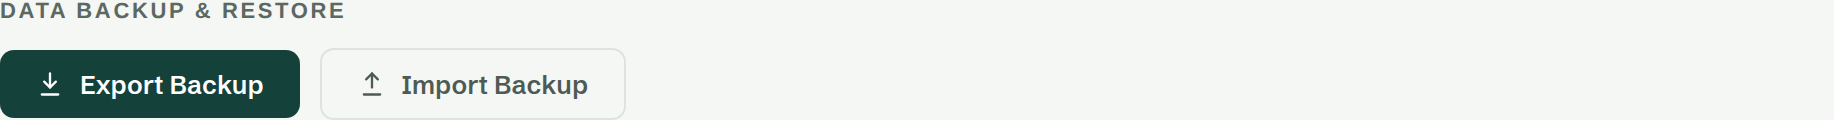
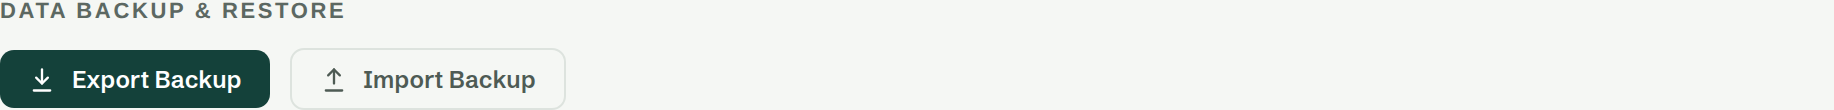
Put Settings' own controls back on the button scale
Splitting Settings into pages left the controls on those pages as they were,
and measured across the seventeen there were ten distinct shapes — of which
six were plain buttons that should have been two.

The app already documents a four-step button scale; the drift was entirely
things that had opted out of it. Five classes restated a step under their own
name — .holiday-remove-btn, .year-active-btn and .copy-year-btn each spelling
out the dense step's 11px / 4px 10px / radius 6, .reset-targets-btn missing
the base step by two pixels of padding and one of radius — and
.holiday-year-pill hand-painted navy for a selected state that .cf-pill's
[data-active] already had. Each now shares the selector that owns its
geometry and keeps only what is its own: colour, border, and in the pill's
case the mono face, which is the one thing about a year that is not like
every other pill.

The subtler one is the trap in the scale's own rule. Non-size properties live
with the modifier that owns them, so a button wearing only --iconrow or
--dangerwide names no step and falls silently to the no-modifier one: Export
Backup and Reset Local Cache came out 13px while + Add 2027 next door was
12px. A role is not a size; those four call sites now name both. Same story
inside a single holiday row, where Edit was the base step and Remove the
dense one — two sizes, one row.

Two shapes now, across ten pages, and they are the scale's own dense and base
[…]

Changed region(s): [[0.0, 0.4091, 0.3419, 1.0], [0.0, 0.0, 0.1865, 0.1636]]

diff --git a/index.html b/index.html
@@ -81,10 +81,11 @@
            same line as it. */
         .checkbox-help-row{display:flex;align-items:center;}
         /* ── Settings → Statutory Holidays ── */
-        .holiday-year-pill{font-family:var(--font-mono);font-size:12px;font-weight:600;
-          padding:5px 12px;min-height:32px;border-radius:8px;cursor:pointer;
-          border:1px solid var(--border);background:var(--bgCard);color:var(--textMid);}
-        .holiday-year-pill[data-active="true"]{background:var(--navy);border-color:var(--navy);color:#fff;}
+        /* A year selector is a pill, and the app already has one — .cf-pill,
+           whose [data-active] state is the same state this was painting navy
+           by hand. All that is left here is the mono face, which is the one
+           thing about a year that is not like every other pill. */
+        .holiday-year-pill{font-family:var(--font-mono);}
         .holiday-list{border:1px solid var(--border);border-radius:10px;overflow:hidden;}
         .holiday-row{display:flex;align-items:center;gap:10px;flex-wrap:wrap;
           padding:8px 12px;border-bottom:1px solid var(--border);background:var(--bgCard);}
@@ -99,8 +100,7 @@
         .holiday-chip--manual{background:var(--accentLt);color:var(--accent);border-color:transparent;}
         .holiday-chip--published{background:var(--greenLt);color:var(--greenDk);border-color:transparent;}
         .holiday-chip--optional{background:var(--amberLt);color:var(--amberInk);border-color:transparent;}
-        .holiday-remove-btn{font-family:var(--font-ui);font-size:11px;font-weight:600;
-          padding:4px 10px;min-height:30px;border-radius:6px;cursor:pointer;
+        .holiday-remove-btn{font-family:var(--font-ui);font-weight:600;cursor:pointer;
           border:1px solid transparent;background:transparent;color:var(--red);}
         .holiday-remove-btn:hover{background:var(--redLt);}
         .holiday-form{border:1px solid var(--border);border-radius:10px;padding:14px;background:var(--stripe);}
@@ -194,9 +194,21 @@
              (no modifier) — form and dialog buttons
 
            Non-size properties (weight, border, icon gaps) stay with the
-           modifier that owns them, below and beside their components. */
-        .cf-btn--compact,.cf-btn--micro,.cf-btn--yearremove{font-size:11px;padding:4px 10px;border-radius:6px;}
-        .cf-btn--sm,.cf-btn--xs,.cf-btn--tiny,.cf-btn--md,.cf-btn--showhide{font-size:12px;padding:7px 14px;}
+           modifier that owns them, below and beside their components — which
+           is also the trap. A button wearing only one of those (--iconrow,
+           --dangerwide) names no step and falls silently to the no-modifier
+           one, so the same page action came out 13px on Accounts and 12px on
+           Budget Years. A role is not a size: every button needs one of each.
+
+           The five classes that used to restate a step under their own name
+           now share these selectors instead — .holiday-remove-btn,
+           .year-active-btn and .copy-year-btn on dense, .reset-targets-btn on
+           base, and .holiday-year-pill folded into .cf-pill, whose
+           [data-active] state it had been painting navy by hand. */
+        .cf-btn--compact,.cf-btn--micro,.cf-btn--yearremove,
+        .holiday-remove-btn,.year-active-btn,.copy-year-btn{font-size:11px;padding:4px 10px;border-radius:6px;}
+        .cf-btn--sm,.cf-btn--xs,.cf-btn--tiny,.cf-btn--md,.cf-btn--showhide,
+        .reset-targets-btn{font-size:12px;padding:7px 14px;}
         .cf-btn--wide,.cf-btn--action{font-size:12px;padding:8px 18px;}
         /* Layout helpers */
         .cf-hidden{display:none!important;}
@@ -977,8 +989,8 @@
         .year-number{font-family:var(--font-mono);font-size:14px;font-weight:700;color:var(--text);min-width:52px;}
         .openbal-label{font-size:11px;color:var(--textMid);white-space:nowrap;}
         .openbal-input{padding:4px 8px;border:1px solid var(--border);border-radius:6px;background:var(--inputBg);color:var(--text);outline:none;width:120px;max-width:100%;min-width:0;flex:0 1 120px;}
-        .year-active-btn{font-size:11px;padding:4px 10px;border-radius:6px;border:1px solid var(--border);cursor:pointer;}
-        .copy-year-btn{font-size:11px;color:var(--primaryInk);background:none;border:1px solid var(--primary);cursor:pointer;padding:4px 10px;border-radius:6px;white-space:nowrap;}
+        .year-active-btn{font-weight:600;border:1px solid var(--border);cursor:pointer;}
+        .copy-year-btn{font-weight:600;color:var(--primaryInk);background:none;border:1px solid var(--primary);cursor:pointer;white-space:nowrap;}
         .newyear-input{padding:7px 10px;border:1px solid var(--border);border-radius:6px;background:var(--inputBg);color:var(--text);outline:none;width:120px;}
         .cf-btn--iconrow{display:flex;align-items:center;gap:8px;}
         .backup-msg{font-size:12px;margin-top:10px;}
@@ -1023,7 +1035,8 @@
         .bio-section{margin-top:18px;padding-top:16px;border-top:1px solid var(--border);}
         .bio-busy-text{font-size:12px;color:var(--textLt);}
         .error-text-mt6{font-size:12px;color:var(--red);margin-top:6px;}
-        .reset-targets-btn{font-size:13px;font-weight:600;padding:9px 20px;border-radius:8px;border:1px solid var(--primary);cursor:pointer;background:var(--primary);color:#fff;}
+        .reset-targets-btn{font-family:var(--font-ui);font-weight:600;border-radius:7px;cursor:pointer;
+          border:1px solid var(--primary);background:var(--primary);color:#fff;}
         .success-text-mt10{font-size:12px;color:var(--greenDk);margin-top:10px;}
         .danger-card{margin-bottom:20px;border:1px solid var(--redLt);}
         .cf-btn--dangerwide{border:1px solid var(--red);display:inline-flex;align-items:center;gap:6px;}
@@ -1640,9 +1653,10 @@
           border-radius:9px;background:#fff;transition:left 0.2s;box-shadow:0 1px 4px rgba(0,0,0,0.2);}
         .cf-switch[aria-checked="true"] .cf-switch-knob{left:23px;}
         /* Pill segmented controls (month picker, view toggles) */
-        .cf-pill{font-size:12px;font-weight:600;padding:6px 14px;border-radius:20px;border:none;
+        .cf-pill,.holiday-year-pill{font-size:12px;font-weight:600;padding:6px 14px;border-radius:20px;border:none;
           cursor:pointer;flex-shrink:0;background:var(--border);color:var(--textMid);}
-        .cf-pill[aria-pressed="true"],.cf-pill[data-active="true"]{background:var(--primary);color:#fff;}
+        .cf-pill[aria-pressed="true"],.cf-pill[data-active="true"],
+        .holiday-year-pill[data-active="true"]{background:var(--primary);color:#fff;}
         .cf-pill--dashed{font-size:11px;font-weight:700;padding:6px 12px;border-radius:20px;
           border:1.5px dashed var(--primary);cursor:pointer;flex-shrink:0;background:transparent;color:var(--primaryInk);}
         /* Compact variant for pill toggles docked in a card header (YoY metric,
@@ -4879,7 +4893,7 @@ document.addEventListener('DOMContentLoaded',function(){
   const HELP_SHOTS = {
     "settings-years": {
       "w": 917,
-      "h": 151
+      "h": 109
     },
     "entry-form": {
       "w": 680,
@@ -4907,7 +4921,7 @@ document.addEventListener('DOMContentLoaded',function(){
     },
     "dashboard-upcoming": {
       "w": 917,
-      "h": 228
+      "h": 194
     },
     "plan-goals": {
       "w": 917,
@@ -4915,7 +4929,7 @@ document.addEventListener('DOMContentLoaded',function(){
     },
     "settings-backup": {
       "w": 917,
-      "h": 102
+      "h": 60
     }
   };
   // Extracted from app-data.js (round-9 AR4 remainder) — pure code motion.
@@ -15431,7 +15445,7 @@ Fill every field of the response schema. Rules:
         sourceChip(row.source),
         /* @__PURE__ */ React.createElement("div", { className: "cf-row cf-gap-6" }, /* @__PURE__ */ React.createElement(
           "button",
-          { onClick: () => startEdit(row), className: "cf-btn cf-btn--secondary cf-btn--tiny", "aria-label": `Edit ${row.name}` },
+          { onClick: () => startEdit(row), className: "cf-btn cf-btn--secondary cf-btn--compact", "aria-label": `Edit ${row.name}` },
           "Edit"
         ), /* @__PURE__ */ React.createElement(
           "button",
@@ -15936,7 +15950,7 @@ Fill every field of the response schema. Rules:
       onClick: () => setRemovingAccount(a),
       "aria-label": `Remove ${a.name}`
     }, "Remove")))), /* @__PURE__ */ React.createElement("div", { className: "cf-row cf-gap-10 cf-wrap" }, /* @__PURE__ */ React.createElement("button", {
-      className: "cf-btn cf-btn--secondary",
+      className: "cf-btn cf-btn--secondary cf-btn--md",
       onClick: () => {
         setAccounts((prev) => [...prev, { id: genId(), name: "New account", kind: "savings", opening: 0 }]);
         logActivity("account", "Added an account");
@@ -16233,7 +16247,7 @@ Fill every field of the response schema. Rules:
           setInviteBusy(false);
         },
         disabled: inviteBusy,
-        className: "cf-btn cf-btn--primary"
+        className: "cf-btn cf-btn--primary cf-btn--md"
       },
       inviteBusy ? "Generating…" : "Generate invite code"
     ), inviteCode && /* @__PURE__ */ React.createElement("div", { className: "invite-code-display" }, inviteCode))) },
@@ -16254,7 +16268,7 @@ Fill every field of the response schema. Rules:
           // export, and the export itself already succeeded.
         }
       }
-    }, className: "cf-btn cf-btn--primary cf-btn--iconrow" }, /* @__PURE__ */ React.createElement(Icon, { name: "download", size: 14 }), "Export Backup"), /* @__PURE__ */ React.createElement("label", { className: "cf-btn cf-btn--secondary cf-btn--iconrow" }, /* @__PURE__ */ React.createElement(Icon, { name: "upload", size: 14 }), "Import Backup", /* @__PURE__ */ React.createElement("input", { type: "file", accept: ".json", className: "hidden", onChange: (e) => {
+    }, className: "cf-btn cf-btn--primary cf-btn--md cf-btn--iconrow" }, /* @__PURE__ */ React.createElement(Icon, { name: "download", size: 14 }), "Export Backup"), /* @__PURE__ */ React.createElement("label", { className: "cf-btn cf-btn--secondary cf-btn--md cf-btn--iconrow" }, /* @__PURE__ */ React.createElement(Icon, { name: "upload", size: 14 }), "Import Backup", /* @__PURE__ */ React.createElement("input", { type: "file", accept: ".json", className: "hidden", onChange: (e) => {
       const file = e.target.files[0];
       if (!file) return;
       const reader = new FileReader();
@@ -16484,7 +16498,7 @@ Fill every field of the response schema. Rules:
       "button",
       {
         onClick: () => setConfirmWipe(true),
-        className: "cf-btn cf-btn--danger cf-btn--dangerwide"
+        className: "cf-btn cf-btn--danger cf-btn--md cf-btn--dangerwide"
       },
       /* @__PURE__ */ React.createElement(Icon, { name: "trash", size: 13 }),
       "Reset Local Cache"

diff --git a/src/styles.css b/src/styles.css
@@ -53,10 +53,11 @@
            same line as it. */
         .checkbox-help-row{display:flex;align-items:center;}
         /* ── Settings → Statutory Holidays ── */
-        .holiday-year-pill{font-family:var(--font-mono);font-size:12px;font-weight:600;
-          padding:5px 12px;min-height:32px;border-radius:8px;cursor:pointer;
-          border:1px solid var(--border);background:var(--bgCard);color:var(--textMid);}
-        .holiday-year-pill[data-active="true"]{background:var(--navy);border-color:var(--navy);color:#fff;}
+        /* A year selector is a pill, and the app already has one — .cf-pill,
+           whose [data-active] state is the same state this was painting navy
+           by hand. All that is left here is the mono face, which is the one
+           thing about a year that is not like every other pill. */
+        .holiday-year-pill{font-family:var(--font-mono);}
         .holiday-list{border:1px solid var(--border);border-radius:10px;overflow:hidden;}
         .holiday-row{display:flex;align-items:center;gap:10px;flex-wrap:wrap;
           padding:8px 12px;border-bottom:1px solid var(--border);background:var(--bgCard);}
@@ -71,8 +72,7 @@
         .holiday-chip--manual{background:var(--accentLt);color:var(--accent);border-color:transparent;}
         .holiday-chip--published{background:var(--greenLt);color:var(--greenDk);border-color:transparent;}
         .holiday-chip--optional{background:var(--amberLt);color:var(--amberInk);border-color:transparent;}
-        .holiday-remove-btn{font-family:var(--font-ui);font-size:11px;font-weight:600;
-          padding:4px 10px;min-height:30px;border-radius:6px;cursor:pointer;
+        .holiday-remove-btn{font-family:var(--font-ui);font-weight:600;cursor:pointer;
           border:1px solid transparent;background:transparent;color:var(--red);}
         .holiday-remove-btn:hover{background:var(--redLt);}
         .holiday-form{border:1px solid var(--border);border-radius:10px;padding:14px;background:var(--stripe);}
@@ -166,9 +166,21 @@
              (no modifier) — form and dialog buttons
 
            Non-size properties (weight, border, icon gaps) stay with the
-           modifier that owns them, below and beside their components. */
-        .cf-btn--compact,.cf-btn--micro,.cf-btn--yearremove{font-size:11px;padding:4px 10px;border-radius:6px;}
-        .cf-btn--sm,.cf-btn--xs,.cf-btn--tiny,.cf-btn--md,.cf-btn--showhide{font-size:12px;padding:7px 14px;}
+           modifier that owns them, below and beside their components — which
+           is also the trap. A button wearing only one of those (--iconrow,
+           --dangerwide) names no step and falls silently to the no-modifier
+           one, so the same page action came out 13px on Accounts and 12px on
+           Budget Years. A role is not a size: every button needs one of each.
+
+           The five classes that used to restate a step under their own name
+           now share these selectors instead — .holiday-remove-btn,
+           .year-active-btn and .copy-year-btn on dense, .reset-targets-btn on
+           base, and .holiday-year-pill folded into .cf-pill, whose
+           [data-active] state it had been painting navy by hand. */
+        .cf-btn--compact,.cf-btn--micro,.cf-btn--yearremove,
+        .holiday-remove-btn,.year-active-btn,.copy-year-btn{font-size:11px;padding:4px 10px;border-radius:6px;}
+        .cf-btn--sm,.cf-btn--xs,.cf-btn--tiny,.cf-btn--md,.cf-btn--showhide,
+        .reset-targets-btn{font-size:12px;padding:7px 14px;}
         .cf-btn--wide,.cf-btn--action{font-size:12px;padding:8px 18px;}
         /* Layout helpers */
         .cf-hidden{display:none!important;}
@@ -949,8 +961,8 @@
         .year-number{font-family:var(--font-mono);font-size:14px;font-weight:700;color:var(--text);min-width:52px;}
         .openbal-label{font-size:11px;color:var(--textMid);white-space:nowrap;}
         .openbal-input{padding:4px 8px;border:1px solid var(--border);border-radius:6px;background:var(--inputBg);color:var(--text);outline:none;width:120px;max-width:100%;min-width:0;flex:0 1 120px;}
-        .year-active-btn{font-size:11px;padding:4px 10px;border-radius:6px;border:1px solid var(--border);cursor:pointer;}
-        .copy-year-btn{font-size:11px;color:var(--primaryInk);background:none;border:1px solid var(--primary);cursor:pointer;padding:4px 10px;border-radius:6px;white-space:nowrap;}
+        .year-active-btn{font-weight:600;border:1px solid var(--border);cursor:pointer;}
+        .copy-year-btn{font-weight:600;color:var(--primaryInk);background:none;border:1px solid var(--primary);cursor:pointer;white-space:nowrap;}
         .newyear-input{padding:7px 10px;border:1px solid var(--border);border-radius:6px;background:var(--inputBg);color:var(--text);outline:none;width:120px;}
         .cf-btn--iconrow{display:flex;align-items:center;gap:8px;}
         .backup-msg{font-size:12px;margin-top:10px;}
@@ -995,7 +1007,8 @@
         .bio-section{margin-top:18px;padding-top:16px;border-top:1px solid var(--border);}
         .bio-busy-text{font-size:12px;color:var(--textLt);}
         .error-text-mt6{font-size:12px;color:var(--red);margin-top:6px;}
-        .reset-targets-btn{font-size:13px;font-weight:600;padding:9px 20px;border-radius:8px;border:1px solid var(--primary);cursor:pointer;background:var(--primary);color:#fff;}
+        .reset-targets-btn{font-family:var(--font-ui);font-weight:600;border-radius:7px;cursor:pointer;
+          border:1px solid var(--primary);background:var(--primary);color:#fff;}
         .success-text-mt10{font-size:12px;color:var(--greenDk);margin-top:10px;}
         .danger-card{margin-bottom:20px;border:1px solid var(--redLt);}
         .cf-btn--dangerwide{border:1px solid var(--red);display:inline-flex;align-items:center;gap:6px;}
@@ -1612,9 +1625,10 @@
           border-radius:9px;background:#fff;transition:left 0.2s;box-shadow:0 1px 4px rgba(0,0,0,0.2);}
         .cf-switch[aria-checked="true"] .cf-switch-knob{left:23px;}
         /* Pill segmented controls (month picker, view toggles) */
-        .cf-pill{font-size:12px;font-weight:600;padding:6px 14px;border-radius:20px;border:none;
+        .cf-pill,.holiday-year-pill{font-size:12px;font-weight:600;padding:6px 14px;border-radius:20px;border:none;
           cursor:pointer;flex-shrink:0;background:var(--border);color:var(--textMid);}
-        .cf-pill[aria-pressed="true"],.cf-pill[data-active="true"]{background:var(--primary);color:#fff;}
+        .cf-pill[aria-pressed="true"],.cf-pill[data-active="true"],
+        .holiday-year-pill[data-active="true"]{background:var(--primary);color:#fff;}
         .cf-pill--dashed{font-size:11px;font-weight:700;padding:6px 12px;border-radius:20px;
           border:1.5px dashed var(--primary);cursor:pointer;flex-shrink:0;background:transparent;color:var(--primaryInk);}
         /* Compact variant for pill toggles docked in a card header (YoY metric,

diff --git a/src/components/settings.js b/src/components/settings.js
@@ -201,7 +201,7 @@
         sourceChip(row.source),
         /* @__PURE__ */ React.createElement("div", { className: "cf-row cf-gap-6" }, /* @__PURE__ */ React.createElement(
           "button",
-          { onClick: () => startEdit(row), className: "cf-btn cf-btn--secondary cf-btn--tiny", "aria-label": `Edit ${row.name}` },
+          { onClick: () => startEdit(row), className: "cf-btn cf-btn--secondary cf-btn--compact", "aria-label": `Edit ${row.name}` },
           "Edit"
         ), /* @__PURE__ */ React.createElement(
           "button",
@@ -706,7 +706,7 @@
       onClick: () => setRemovingAccount(a),
       "aria-label": `Remove ${a.name}`
     }, "Remove")))), /* @__PURE__ */ React.createElement("div", { className: "cf-row cf-gap-10 cf-wrap" }, /* @__PURE__ */ React.createElement("button", {
-      className: "cf-btn cf-btn--secondary",
+      className: "cf-btn cf-btn--secondary cf-btn--md",
       onClick: () => {
         setAccounts((prev) => [...prev, { id: genId(), name: "New account", kind: "savings", opening: 0 }]);
         logActivity("account", "Added an account");
@@ -1003,7 +1003,7 @@
           setInviteBusy(false);
         },
         disabled: inviteBusy,
-        className: "cf-btn cf-btn--primary"
+        className: "cf-btn cf-btn--primary cf-btn--md"
       },
       inviteBusy ? "Generating…" : "Generate invite code"
     ), inviteCode && /* @__PURE__ */ React.createElement("div", { className: "invite-code-display" }, inviteCode))) },
@@ -1024,7 +1024,7 @@
           // export, and the export itself already succeeded.
         }
       }
-    }, className: "cf-btn cf-btn--primary cf-btn--iconrow" }, /* @__PURE__ */ React.createElement(Icon, { name: "download", size: 14 }), "Export Backup"), /* @__PURE__ */ React.createElement("label", { className: "cf-btn cf-btn--secondary cf-btn--iconrow" }, /* @__PURE__ */ React.createElement(Icon, { name: "upload", size: 14 }), "Import Backup", /* @__PURE__ */ React.createElement("input", { type: "file", accept: ".json", className: "hidden", onChange: (e) => {
+    }, className: "cf-btn cf-btn--primary cf-btn--md cf-btn--iconrow" }, /* @__PURE__ */ React.createElement(Icon, { name: "download", size: 14 }), "Export Backup"), /* @__PURE__ */ React.createElement("label", { className: "cf-btn cf-btn--secondary cf-btn--md cf-btn--iconrow" }, /* @__PURE__ */ React.createElement(Icon, { name: "upload", size: 14 }), "Import Backup", /* @__PURE__ */ React.createElement("input", { type: "file", accept: ".json", className: "hidden", onChange: (e) => {
       const file = e.target.files[0];
       if (!file) return;
       const reader = new FileReader();
@@ -1254,7 +1254,7 @@
       "button",
       {
         onClick: () => setConfirmWipe(true),
-        className: "cf-btn cf-btn--danger cf-btn--dangerwide"
+        className: "cf-btn cf-btn--danger cf-btn--md cf-btn--dangerwide"
       },
       /* @__PURE__ */ React.createElement(Icon, { name: "trash", size: 13 }),
       "Reset Local Cache"

diff --git a/sw.js b/sw.js
@@ -1,5 +1,5 @@
 // CashFlow service worker. Built to sw.js at the repo root by build.js, which
-// substitutes v190-ac6ed8c6a010 with the CF_VERSION constant in bootstrap-head.js
+// substitutes v190-5f722062319c with the CF_VERSION constant in bootstrap-head.js
 // so the cache name and the app bundle always bump together.
 //
 // This has to be a real same-origin file: it used to be registered from a
@@ -9,7 +9,7 @@
 // way to receive Web Push — push events are delivered to the worker, not to a
 // page — and on Android it's the only way to show a notification at all
 // (Chrome for Android does not implement the `new Notification()` constructor).
-const CACHE = 'cf-v190-ac6ed8c6a010';
+const CACHE = 'cf-v190-5f722062319c';
 
 self.addEventListener('install', (e) => {
   e.waitUntil(

diff --git a/src/lib/help-shots.js b/src/lib/help-shots.js
@@ -40,6 +40,6 @@
     },
     "settings-backup": {
       "w": 917,
-      "h": 60
+      "h": 55
     }
   };
